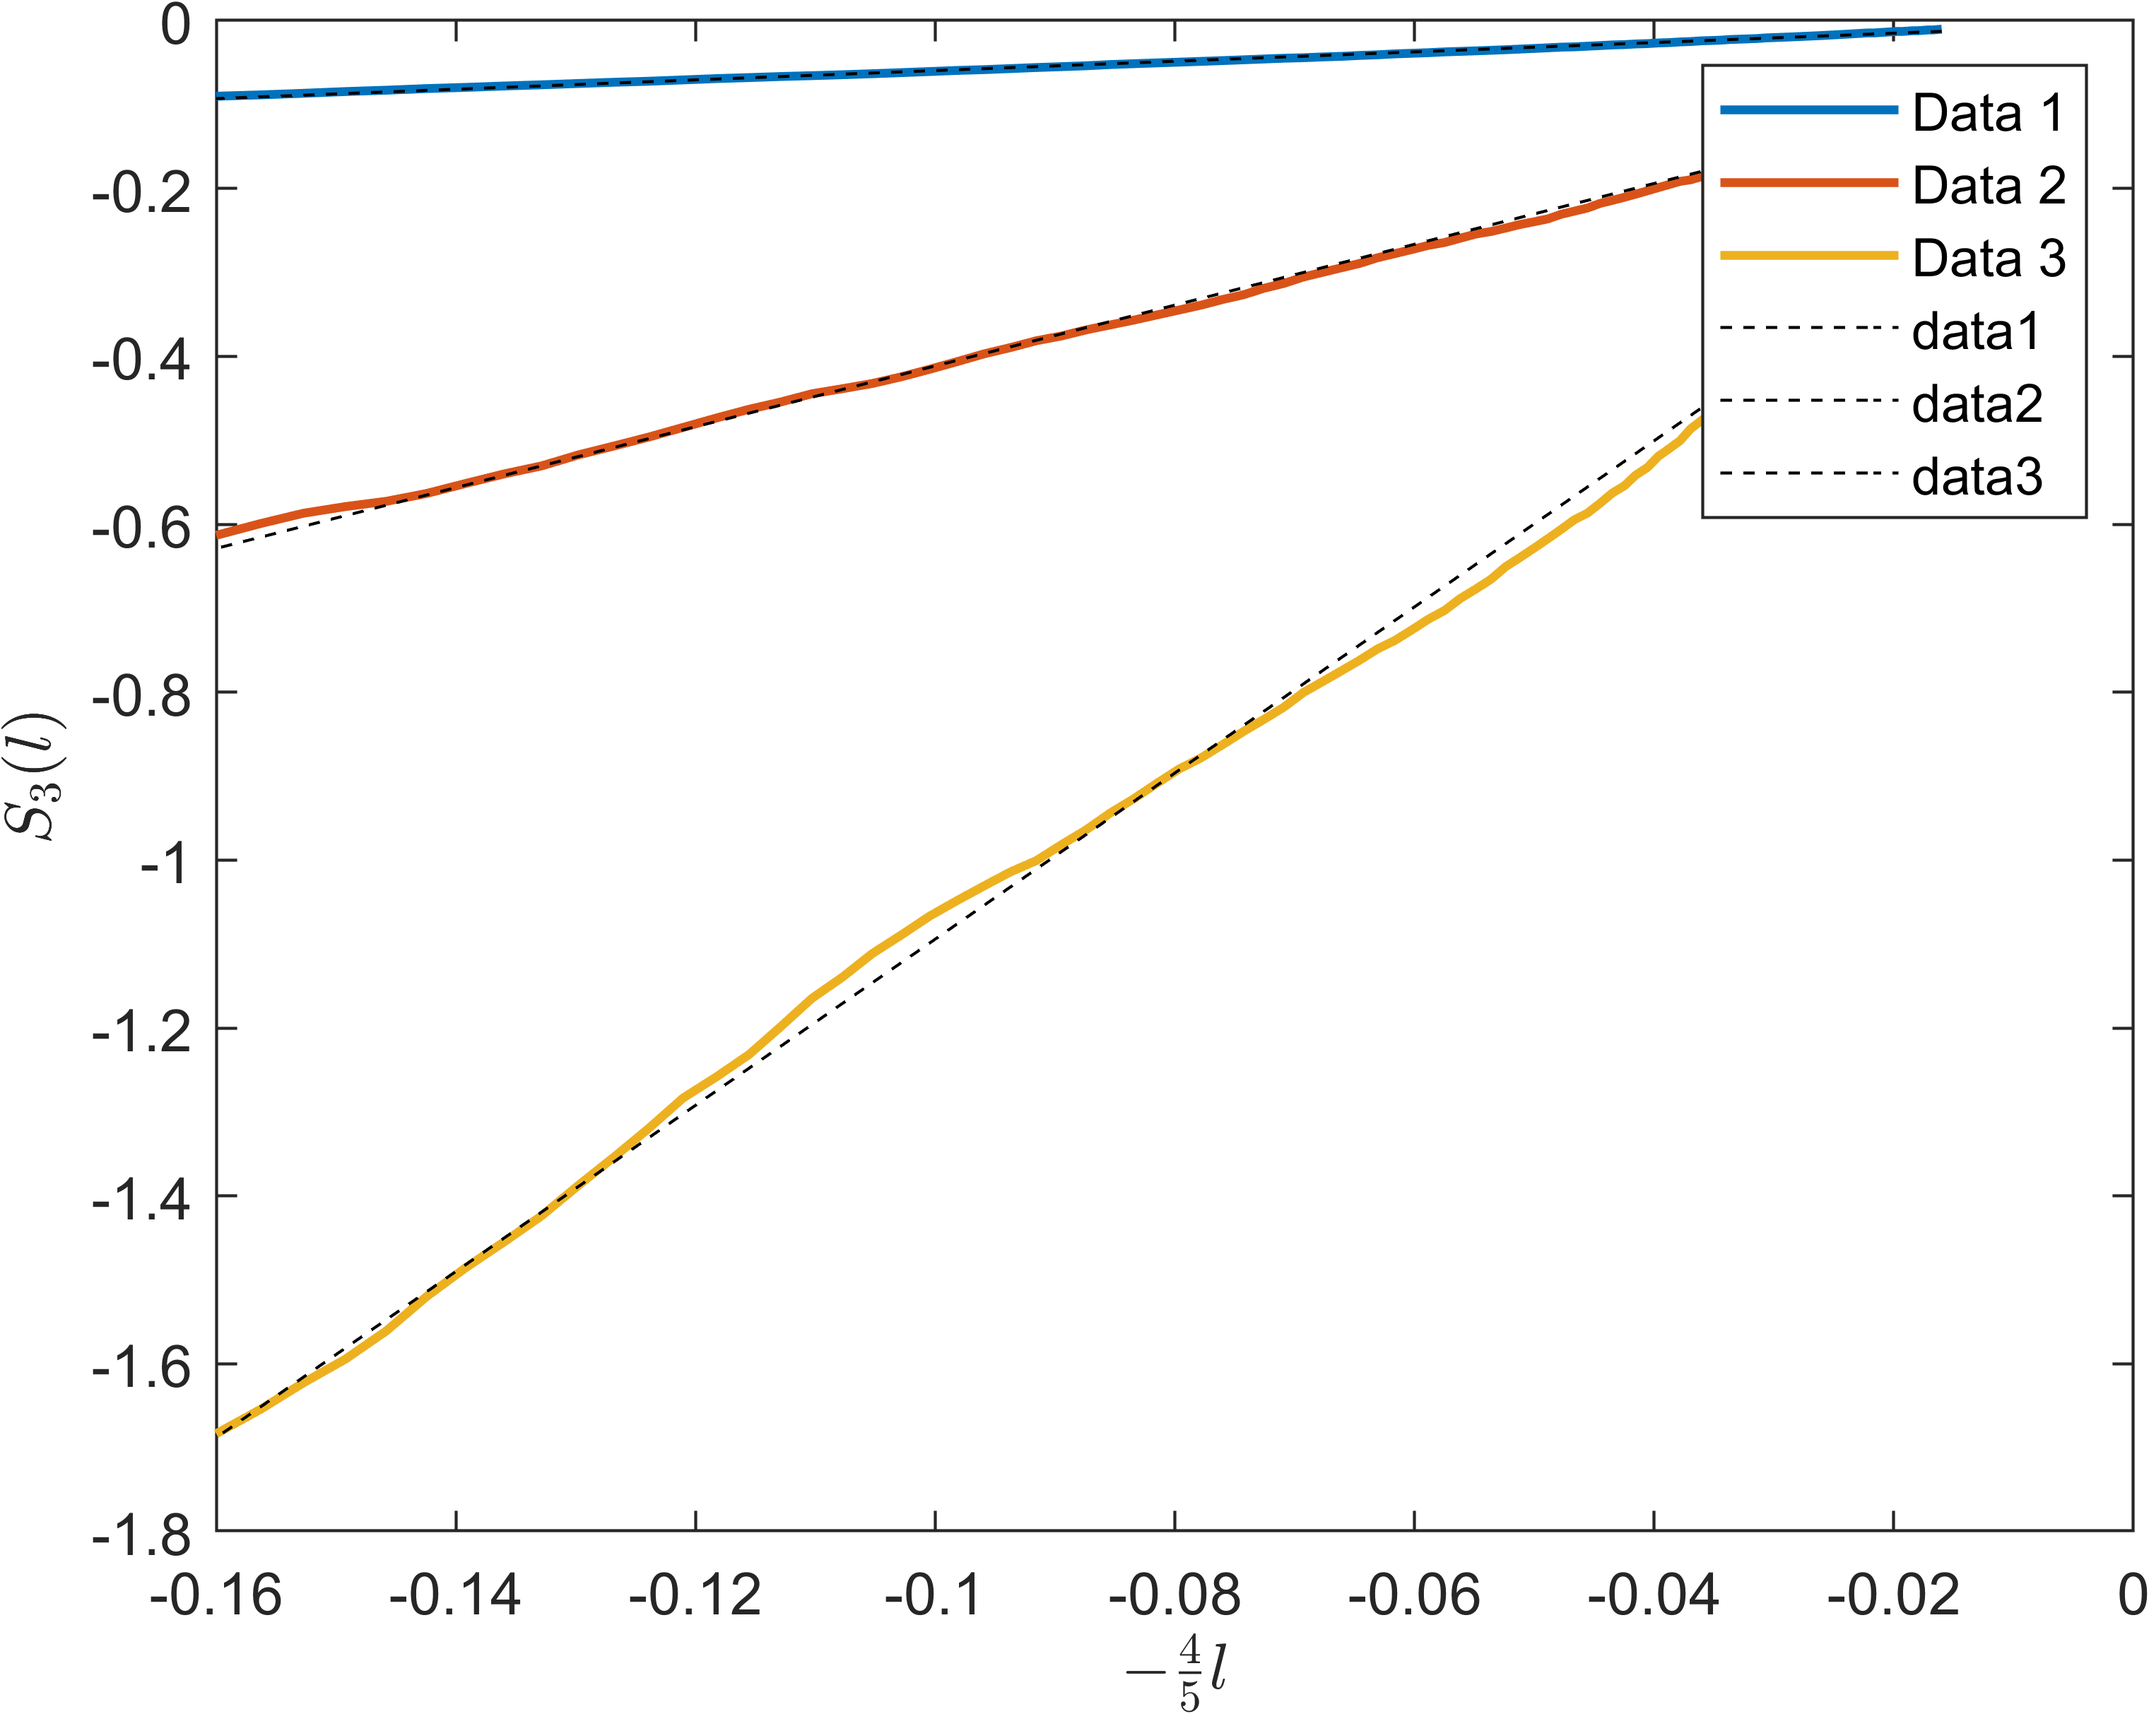
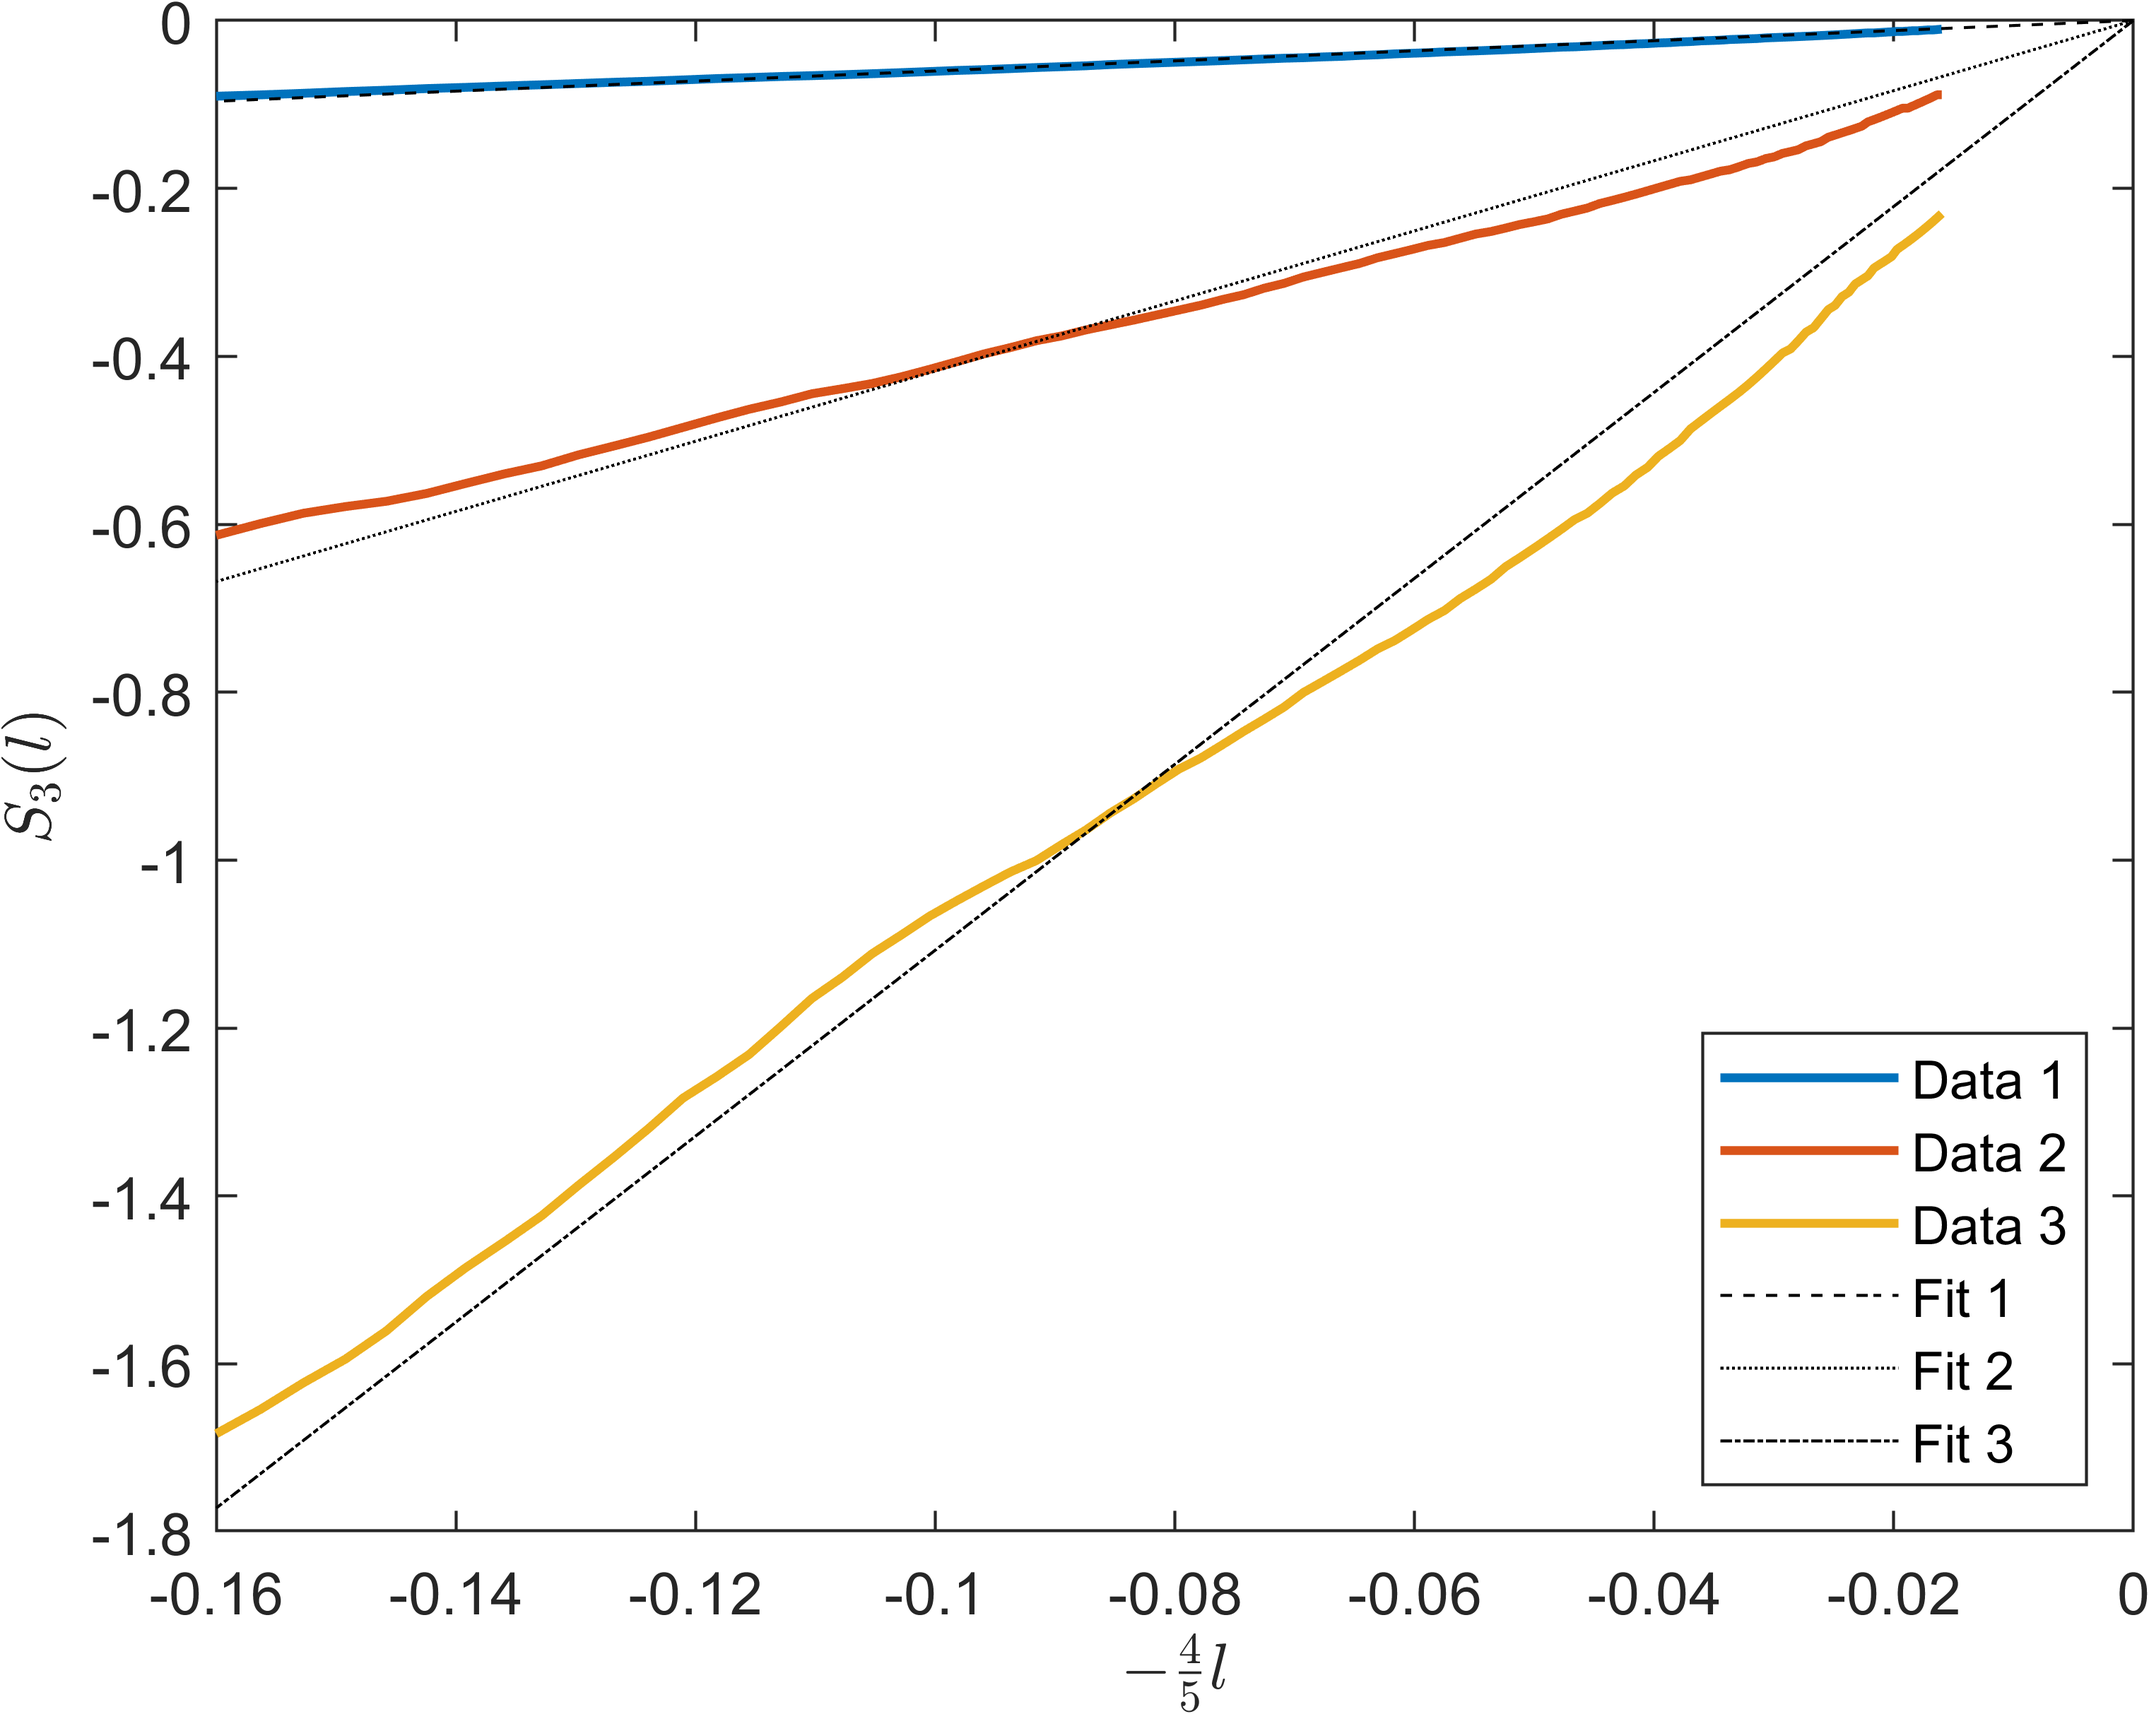
2eme ebauche

Changed region(s): [[0.781, 0.0309, 0.9684, 0.3092], [0.781, 0.6183, 0.9684, 0.8656], [0.781, 0.1855, 0.8435, 0.2473]]

diff --git a/programs/PART7_2_dissipation_estimate.m b/programs/PART7_2_dissipation_estimate.m
@@ -46,6 +46,7 @@ num = 100;
 %l = logspace(log10(params(1).lambda), log10(params(1).L_C), num); % We create values in the inertial range
 l = logspace(log10(2e-2), log10(2e-1), num); % We create values within the inertial range
 
+ft = fittype('a*x');
 
 for i = 1:length(files)
     % --- Load and preprocess data ---
@@ -59,51 +60,58 @@ for i = 1:length(files)
     % Compute the third-order structure function:
     str_fct(i).S3 = structure_function(u, l, f, U, 3);
 
-    g = fit(((-4/5).*l)', str_fct(i).S3', 'poly1');
+    % g = fit(((-4/5).*l)', str_fct(i).S3', 'poly1');
+    g = fit(((-4/5).*l)', str_fct(i).S3', ft);
+
     params(i).gS3 = g;
     params(i).epsilon_S3 = g(1);
 
     g = fit(((2.1^(2/3)).*l)', ((str_fct(i).S2).^(2/3))', 'poly1');
+    % g = fit(((2.1^(2/3)).*l)', ((str_fct(i).S2).^(2/3))', ft);
     params(i).gS2 = g;
     params(i).epsilon_S2 = g(1);
 end
 
 %% Plot the third order structure function
+lines = ['--', ':', "-."];
+lgd = {'Data 1', 'Data 2', 'Data 3','Fit 1', 'Fit 2', 'Fit 3'};
+
+
 figure;
-x = -4/5*l;
+x = -4/5*linspace(0, max(l), num);
 for i=1:3
     plot(-4/5*l, str_fct(i).S3, LineWidth=1.5);
     hold on
-    legend({'Data 1', 'Data 2','Data 3'})
     xlabel('$- \frac{4}{5} l$', 'Interpreter','latex')
     ylabel('$S_3(l)$', 'Interpreter','latex')
 end
 
 for i=1:3
     fit = params(i).gS3;
-    plot(x,fit(x), Color='black', LineStyle='--');
+    plot(x,fit(x), Color='black', LineStyle=lines(i));
     hold on
 end
-
+legend(lgd, "Location","southeast")
+xlim([min(x), max(x)])
 exportgraphics(gcf, '../figures/epsilon_S3.png', 'Resolution',600)
 
 
 %% Plot the second order structure function
 figure;
 for i=1:3
-    plot(2.1^(2/3)*l, (str_fct(i).S2).^(2/3));
+    plot(2.1^(2/3)*l, (str_fct(i).S2).^(2/3), LineWidth=1.5);
     hold on
-    legend({'Data 1', 'Data 2', 'Data 3'})
     xlabel('$C_2^{2/3} l$', 'Interpreter','latex')
     ylabel('$S_2^{2/3}(l)$', 'Interpreter','latex')
 end
 
-x = 2.1^(2/3)*l;
+x = 2.1^(2/3)*linspace(0, max(l), num);
 for i=1:3
     fit = params(i).gS2;
-    plot(x,fit(x), Color='black', LineStyle='--');
+    plot(x,fit(x), Color='black', LineStyle=lines(i));
     hold on
 end
+legend(lgd, "Location","southeast")
 
 exportgraphics(gcf, '../figures/epsilon_S2.png', 'Resolution',600)
 

diff --git a/programs/PART6_increment_PDF.m b/programs/PART6_increment_PDF.m
@@ -61,7 +61,7 @@ for k = 1:3
 
             % Legend
             if i == 2
-                legend('Dataset PDF', 'Gaussian', 'Interpreter', 'latex', 'fontsize', 11); 
+                legend('Dataset PDF', 'Gaussian', 'Interpreter', 'latex', 'fontsize', 11, "Location", "southeast", "BackgroundAlpha", 0.8); 
             end
 
             title(['$l=', num2str(l(i)), '\;\mathrm{m}$'], 'Interpreter', 'latex', 'fontsize', 14);
@@ -74,6 +74,7 @@ for k = 1:3
             end
             sgtitle(['Dataset ', num2str(k), ' - ', y_label], ...
                     'Interpreter', 'latex', 'fontsize', 14);
+            exportgraphics(gcf, ['../figures/Dataset ', num2str(k), ' - ', y_label, '.png'], "Resolution",600)
 
     end
 end

diff --git a/programs/RunAll.m b/programs/RunAll.m
@@ -18,18 +18,9 @@ for k = 1:length(files)
         continue;
     end
 
-    % Vérifie si c'est une fonction (on ignore)
-    % fileText = fileread(files(k).name);
-    % if contains(fileText, 'function')
-    %     msgbox(['Ignoré (fonction détectée) : ', files(k).name], 'Info', 'warn');
-    %     pause(1.5); % Laisse le temps de lire
-    %     continue;
-    % end
-
     % Affiche une boîte de dialogue avant d'exécuter le script
     h= msgbox(['Exécution de : ', files(k).name], 'Exécution en cours');
     pause(1.5); % Pause pour permettre de lire le message
-    
 
     try
         run(files(k).name);

diff --git a/programs/PART3_energy_spectrum.m b/programs/PART3_energy_spectrum.m
@@ -91,7 +91,7 @@ params(3).Lint_e = 2*pi * (4)^-1;
 
 % Labels
 xlabel('$k$ [m$^{-1}$]', 'Interpreter', 'latex')
-ylabel('$E(k) [\mathrm{m}^3 \mathrm{s}^{-2}]$', 'Interpreter', 'latex')
+ylabel('$E(k)~[\mathrm{m}^3 \mathrm{s}^{-2}]$', 'Interpreter', 'latex')
 legend('Interpreter', 'latex')
 
 % Plot correlation length scales Lci
